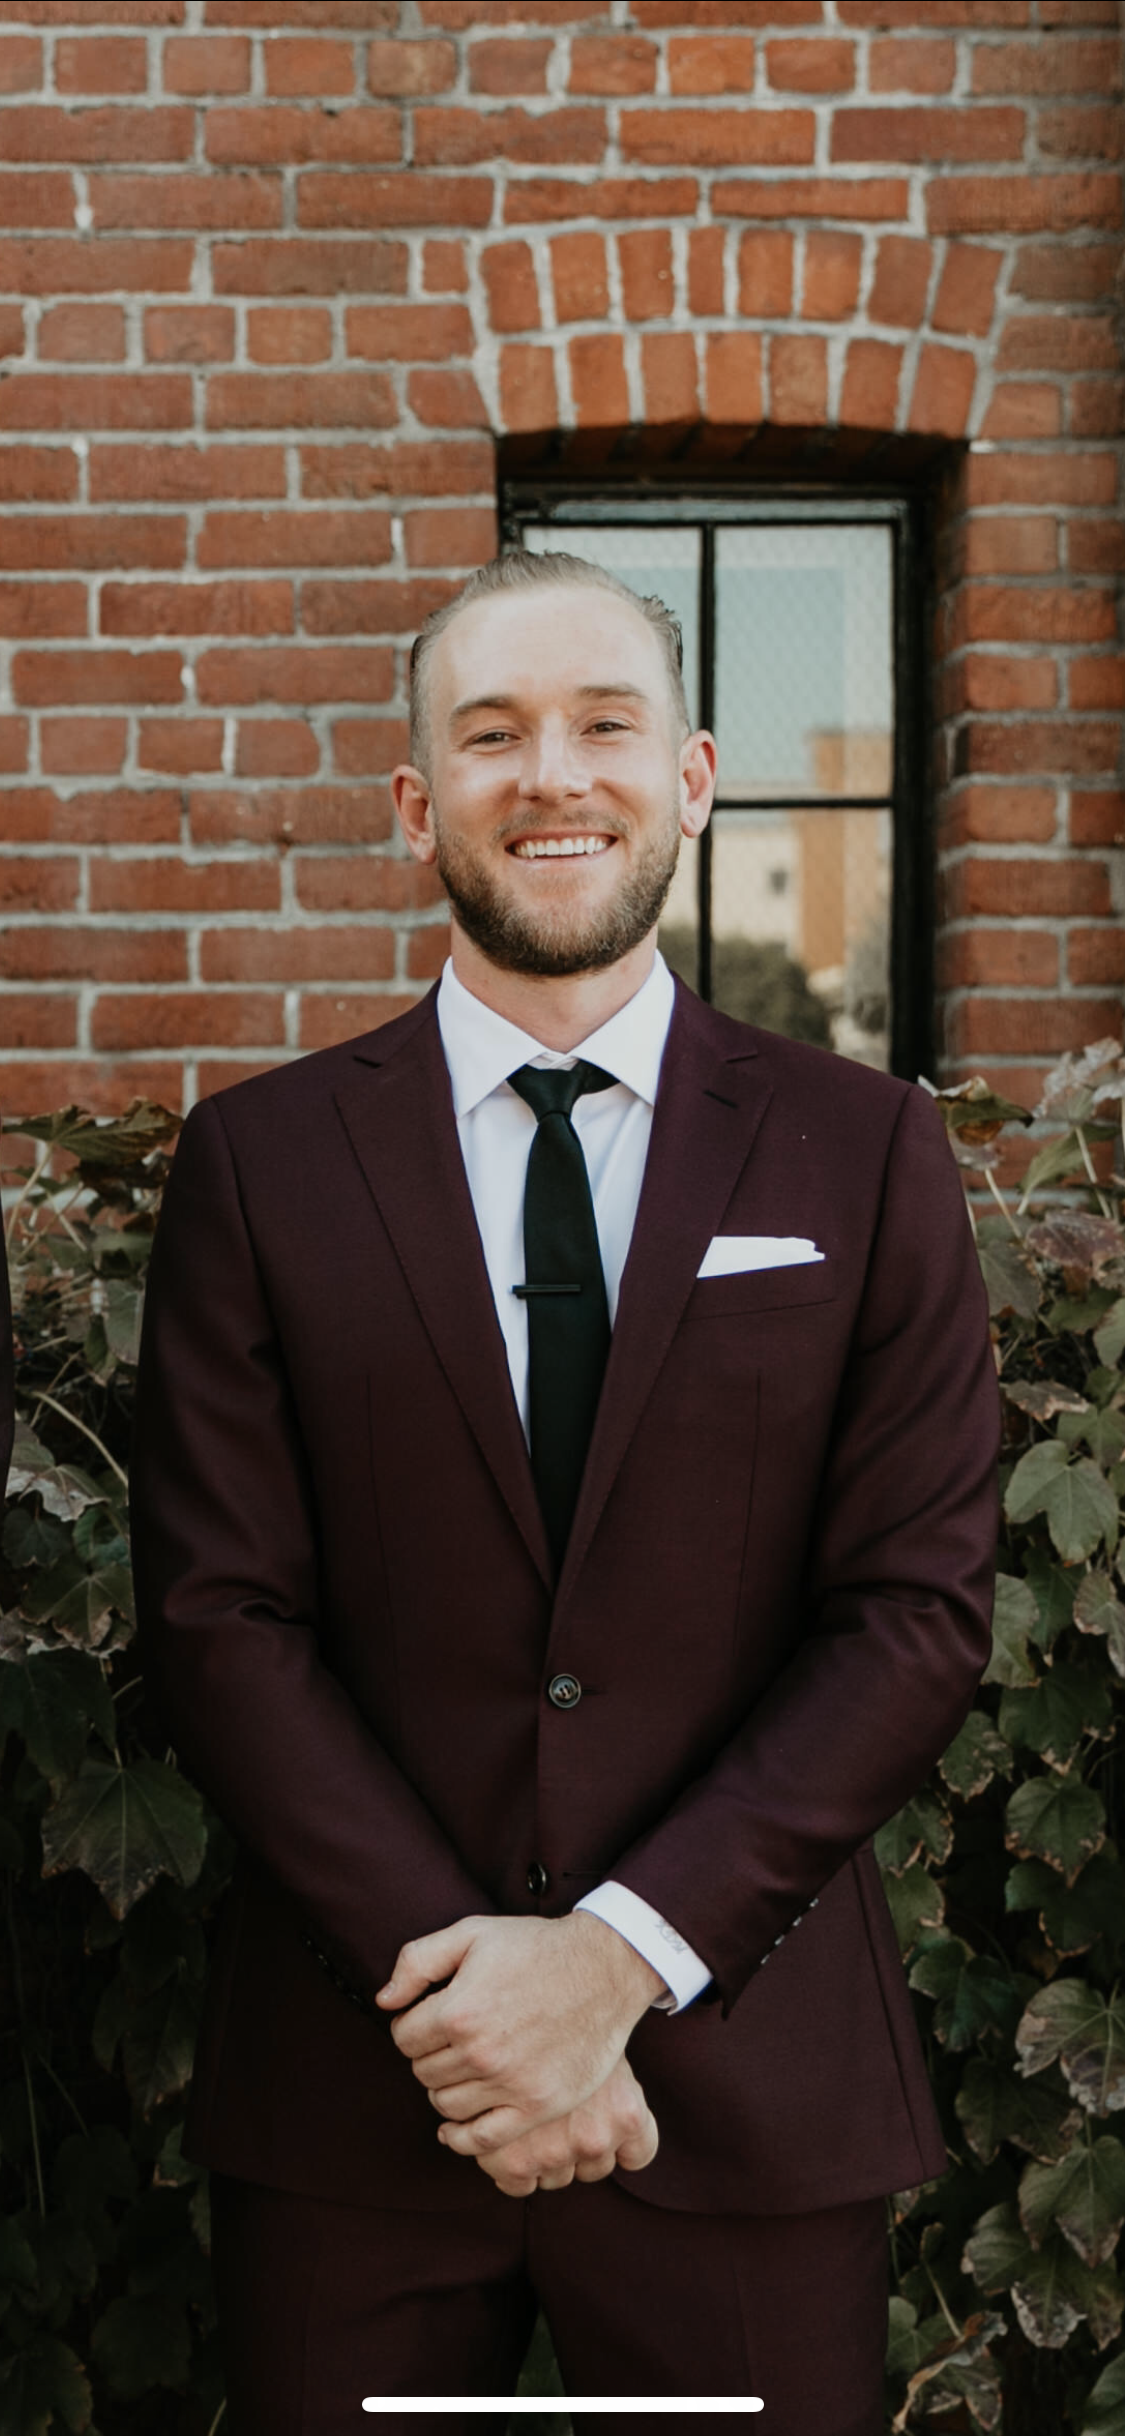
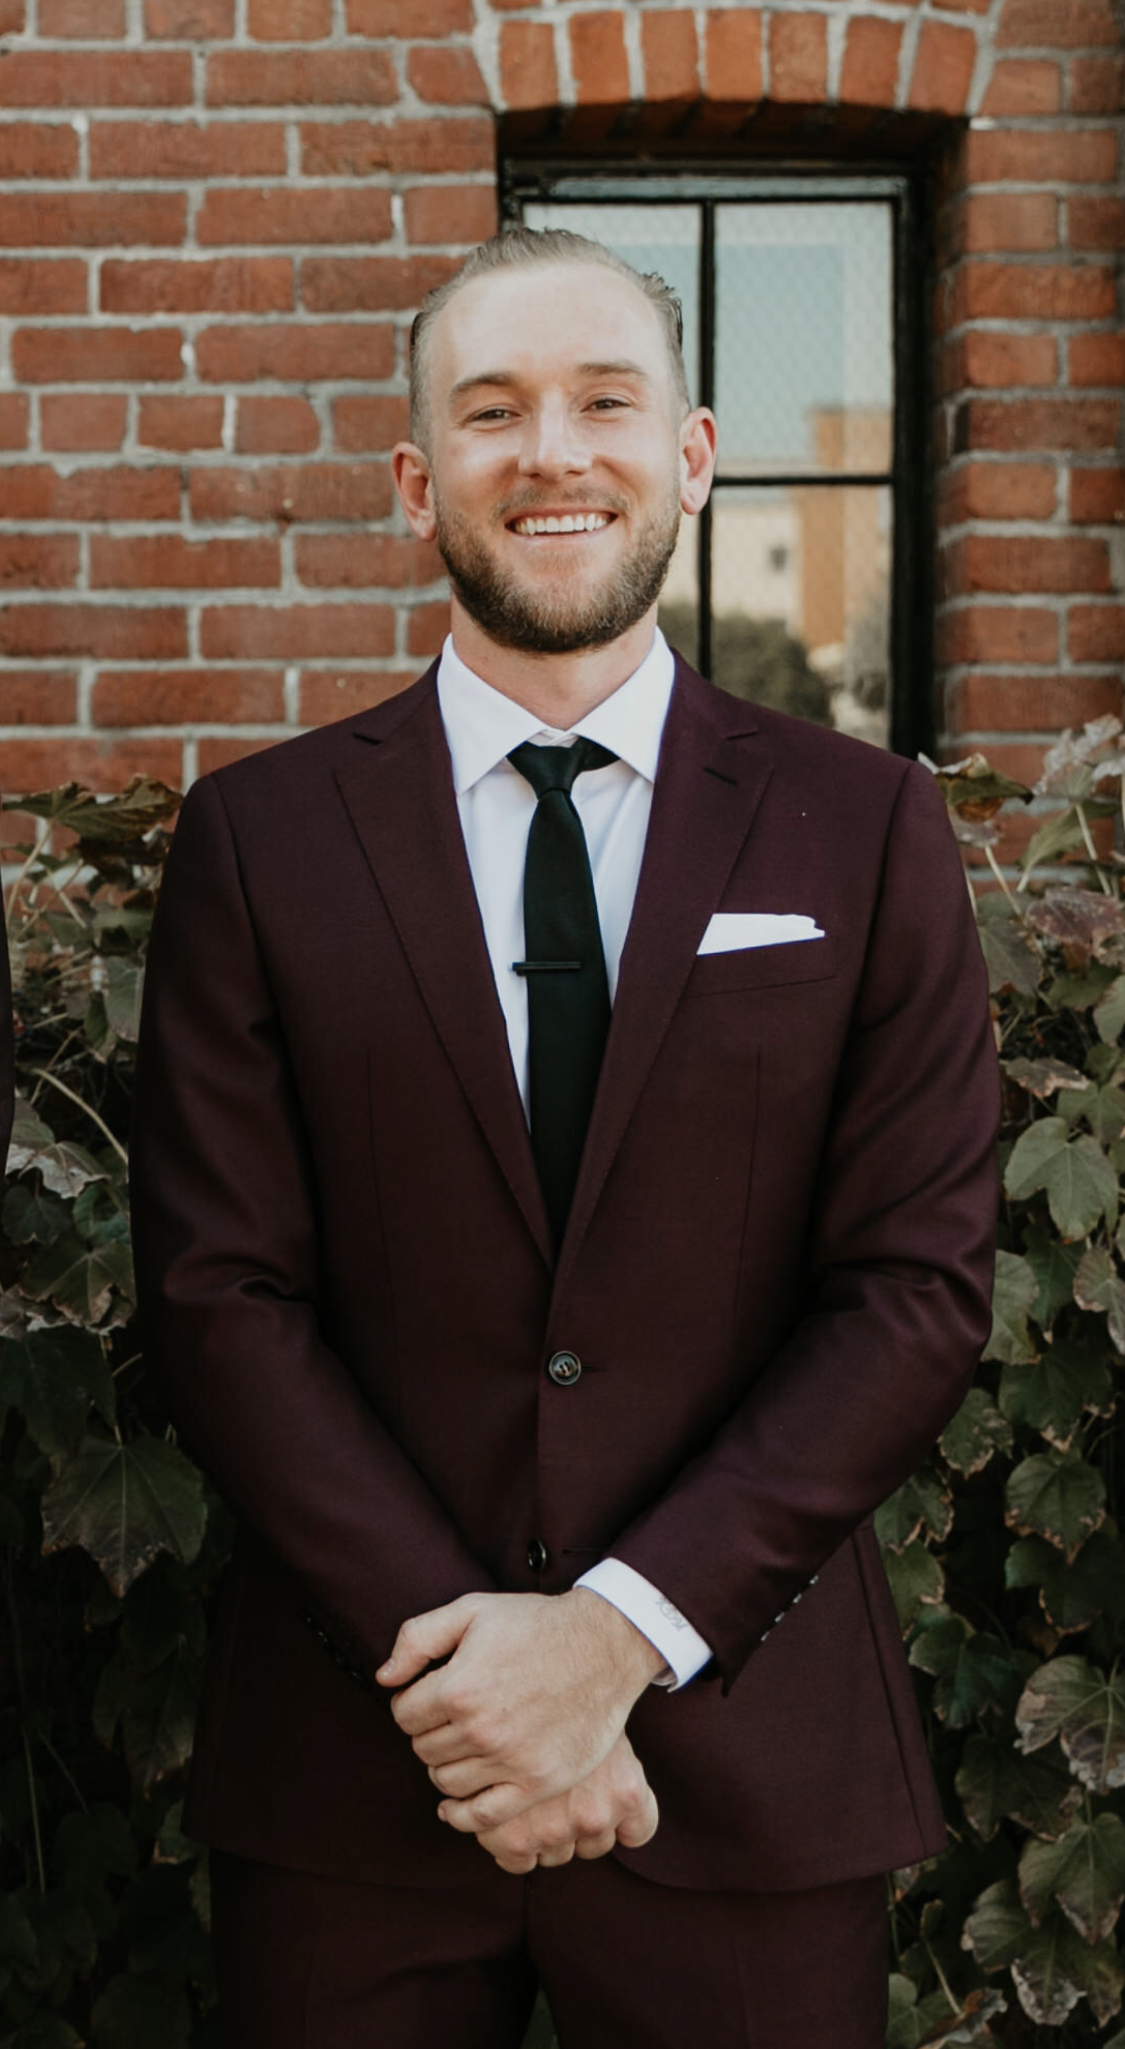
improved layout

diff --git a/topbar.css b/topbar.css
@@ -1,45 +1,88 @@
+/* Page base */
 html,
 body {
   margin: 0;
-  color: white;
+}
+body {
+  background: #373775;
+  color: #fff;
+  font-family: "Roboto", sans-serif;
 }
 
+/* Top bar (full-width) */
 .topbar {
   display: flex;
   align-items: center;
   justify-content: space-between;
   background: rgb(0, 37, 80);
-  margin: 0; /* no outer gap */
-  border: 0; /* ensure no border */
-  padding: 0.75rem 1rem; /* inner spacing only */
-  box-shadow: 0 0 12px -2px black;
+  color: #fff;
+  padding: 0.75rem 1rem;
+  box-shadow: 0 0 12px -2px rgba(0, 0, 0, 0.7);
 }
-
-.topbar .logo h1 {
+.topbar h1 {
   margin: 0;
 }
 .topbar ul {
   display: flex;
   gap: 1rem;
   list-style: none;
-  margin: 0; /* no outer gap */
+  margin: 0;
   padding: 0;
 }
-
-h2 {
-  margin: 0; /* no outer gap */
-  border: 0; /* ensure no border */
-  padding: 3rem 2rem; /* inner spacing only */
-  font-size: 2.5em;
+.topbar a {
+  color: inherit;
+  text-decoration: none;
 }
 
-H3 {
-  font-family: "Pacifico";
-  margin: 0; /* no outer gap */
-  border: 0; /* ensure no border */
-  padding: 3rem 2rem; /* inner spacing only */
-  font-size: 2em;
-  h1 {
-    text-shadow: 0 2px 8px rgba(0, 0, 0, 0.3);
+/* The colored main band that “connects” to header/footer */
+.main-panel {
+  /* make sure there’s space for the shadow to show */
+  margin-inline: var(--gutter); /* the gutters */
+  background: #0b3a78;
+  border-radius: 0; /* straight edges */
+  /* shadow “halo” onto gutters */
+  box-shadow: 0 0 40px -10px rgba(0, 0, 0, 0.35);
+  position: relative; /* for safety with stacking */
+  min-height: 75vh;
+}
+
+/* Foreground content card */
+/* .content-card { */
+  max-width: 960px;
+  margin: 0 auto; /* center the card */
+  background: #ffffff; /* card on top of colored band */
+  color: #111; /* readable text on white */
+  padding: 2rem;
+  border-radius: 12px;
+}
+
+/* Image inside the card */
+.content-card img {
+  width: 300px;
+  height: auto;
+  float: right;
+  margin: 0 0 1rem 1rem;
+  border-radius: 8px;
+  object-fit: cover;
+}
+
+/* Footer (full-width) that touches the main panel */
+.site-footer {
+  background: rgb(0, 37, 80);
+  color: #fff;
+  padding: 1rem;
+  text-align: center;
+  margin: 0; /* no gap above */
+}
+
+/* Optional wider gutters on larger screens */
+@media (min-width: 900px) {
+  .main-panel {
+    margin: 0 4rem;
   }
+}
+
+h3 {
+  color: #000000;
+  font-family: "Pacifico", sans-serif;
 }

diff --git a/index.html b/index.html
@@ -15,27 +15,37 @@
     <title>Home - Kevin's Page</title>
   </head>
   <body>
-    <nav class="topbar">
-      <div class="logo">
-        <h1>Kevin MacDonald</h1>
-      </div>
-      <div>
+    <header>
+      <nav class="topbar">
+        <div class="logo"><h1>Kevin MacDonald</h1></div>
         <ul>
           <li><a href="#">Home</a></li>
           <li><a href="./about.html">About</a></li>
           <li><a href="./portfolio.html">Portfolio</a></li>
         </ul>
+      </nav>
+    </header>
+
+    <!-- Colored band behind your content -->
+    <main class="main-panel">
+      <!-- The foreground “card” that holds your text -->
+      <img src="./me.png" alt="Kevin" />
+      <div class="content-card">
+        <h2>Aspiring Developer</h2>
+        <p>
+          Full-time student at FullStack Academy, learning the skills I need to
+          launch a successful career in programming!
+        </p>
+        <h3>
+          “Dwell on the beauty of life. Watch the stars, and see yourself
+          running with them.” — Marcus Aurelius
+        </h3>
       </div>
-    </nav>
-    <main><img src="./me.png" /></main>
-    <h2>Aspiring Developer</h2>
-    <p>
-      Full-time student at FullStack Academy, learning the skills I need to
-      launch a succesfull career in programming!
-    </p>
-    <h3>
-      “Dwell on the beauty of life. Watch the stars, and see yourself running
-      with them.” ― Marcus Aurelius, Meditations
-    </h3>
+    </main>
+
+    <footer class="site-footer">
+      <!-- add footer links later -->
+      <p>© 2025 Kevin MacDonald</p>
+    </footer>
   </body>
 </html>

diff --git a/index.css b/index.css
@@ -11,6 +11,7 @@
 
 * {
   font-family: "Roboto", sans-serif;
+  box-sizing: border-box;
 }
 
 /* All links site-wide */
@@ -36,5 +37,7 @@ body {
 main > img {
   width: 300px;
   float: right;
-  margin: 1rem;
+  margin: 1rem 2rem;
 }
+
+\
